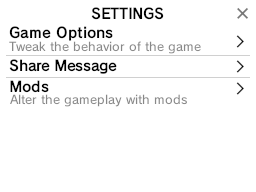
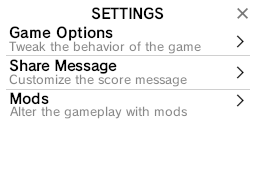
Edited the Share Message in the settings screen

Changed region(s): [[0.0312, 0.3125, 0.9688, 0.625]]

diff --git a/include/gameData.hpp b/include/gameData.hpp
@@ -44,7 +44,7 @@ class GameData {
 
 	// Buttons in the setting selector
 	Button _gameSettingsBtn = { 232, 33, 17, 17 };
-	Button _shareMsgBtn = {232, 58, 17, 17};
+	Button _shareMsgBtn = {232, 64, 17, 17};
 	Button _modBtn = {232, 81, 17, 17};
 
 	// Buttons in the game settings
